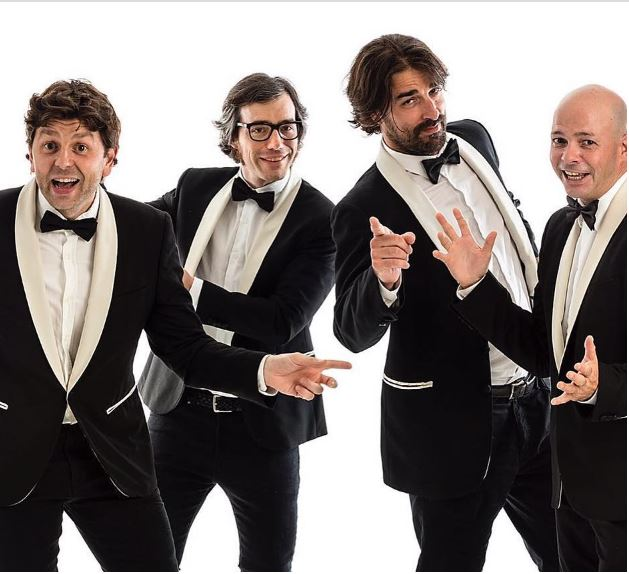
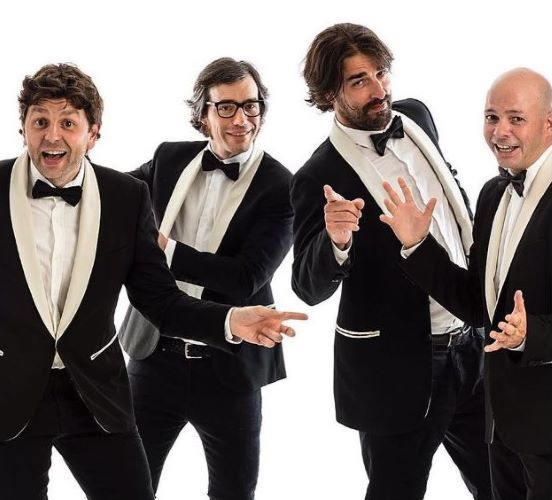
put responsive img and form

diff --git a/public/pages/contacto.html b/public/pages/contacto.html
@@ -89,8 +89,20 @@
           </div>
           <div class="formContact">
             <div class="mb-3">
+              <label for="exampleFormControlInput2" class="form-label"
+                >Nombre*</label
+              >
+              <input
+                type="text"
+                class="form-control"
+                id="exampleFormControlInput2"
+                placeholder="Nombre"
+              />
+            </div>
+
+            <div class="mb-3">
               <label for="exampleFormControlInput1" class="form-label"
-                >Dirección de correo electrónico*</label
+                >Correo electrónico*</label
               >
               <input
                 type="email"
@@ -99,6 +111,7 @@
                 placeholder="nombre@ejemplo.com"
               />
             </div>
+          
             <div class="mb-3">
               <label for="exampleFormControlTextarea1" class="form-label"
                 >Mensaje*</label
@@ -113,7 +126,12 @@
           </div>
         </div>
         <div class="containerRight">
-          <img src="../assets/img/Lostestigos_enescena.png" alt="Los testigos en escena">
+          <img id="contactImg" src="../assets/img/lostestigos3.JPG" alt="Los testigos en escena">
+          <section class="contactText">
+            Mail: lostestigosbbc@gmail.com
+            <br>
+            Teléfonos: 678 724 416 / 637 595 387
+          </section>
         </div>
       </div>
     </main>

diff --git a/public/css/style.css b/public/css/style.css
@@ -3,6 +3,16 @@
 @import url("https://fonts.googleapis.com/css2?family=Inter&family=Roboto+Mono:wght@300&display=swap");
 @import url("https://fonts.googleapis.com/css2?family=Inter&family=Roboto+Mono:wght@300&display=swap");
 @import url("https://fonts.googleapis.com/css2?family=Inter&family=Roboto+Mono:wght@300&display=swap");
+.mainBody {
+  width: 100%;
+  display: flex;
+}
+@media screen and (max-width: 480px) {
+  .mainBody {
+    flex-direction: column;
+  }
+}
+
 .containForm {
   width: 100%;
   display: flex;
@@ -17,7 +27,14 @@
 }
 .containForm .formContact {
   text-align: left;
-  padding-top: 2%;
+  padding-top: 3%;
+}
+
+.containerRight {
+  padding: 5%;
+}
+.containerRight #contactImg {
+  width: 100%;
 }
 
 * {

diff --git a/src/sass/contact.scss b/src/sass/contact.scss
@@ -1,5 +1,15 @@
 @import './mixin.scss';
 
+.mainBody {
+    width: 100%;
+    display: flex;
+
+    @include mobile() {
+        flex-direction: column;
+      }
+
+}
+
 .containForm {
     width: 100%;
     display: flex;
@@ -16,6 +26,14 @@
 
     .formContact {
         text-align: left;
-        padding-top: 2%;
+        padding-top: 3%;
     }
+}
+
+.containerRight {
+    padding: 5%;
+
+    #contactImg {
+        width: 100%;
+     }
 }
